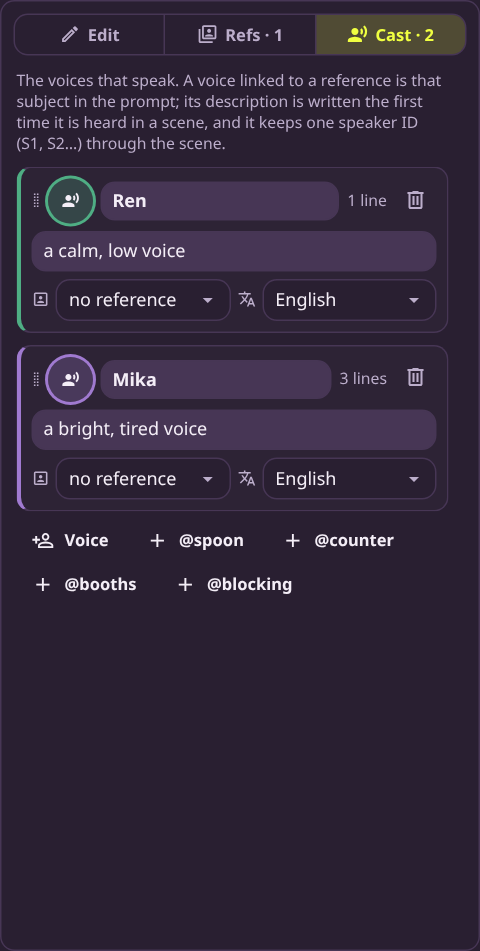
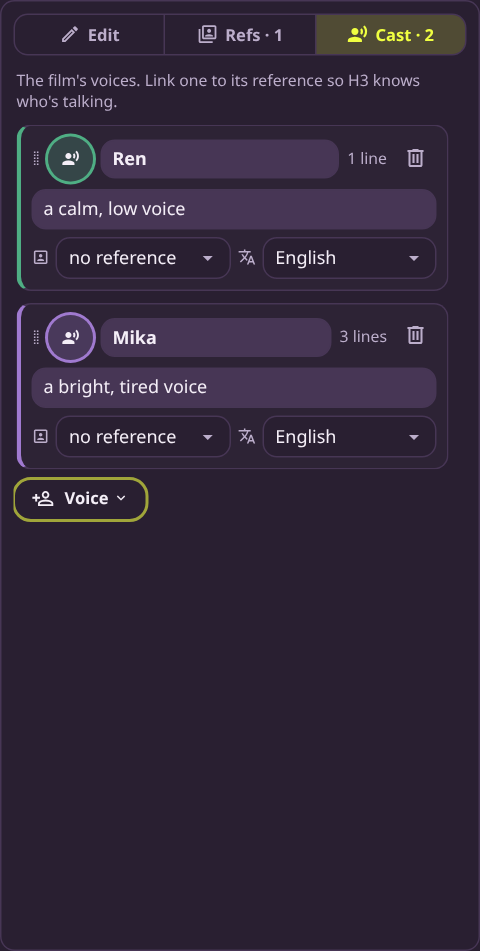
feat: Cast's per-reference voice chips become one Voice menu, without blocking videos

diff --git a/frontend/components/h3studio/StudioCast.vue b/frontend/components/h3studio/StudioCast.vue
@@ -1,10 +1,6 @@
 <template>
   <div ref="root" class="cast">
-    <p class="hintline">
-      The voices that speak. A voice linked to a reference is that subject in the prompt; its
-      description is written the first time it is heard in a scene, and it keeps one speaker ID (S1,
-      S2…) through the scene.
-    </p>
+    <p class="hintline">The film's voices. Link one to its reference so H3 knows who's talking.</p>
     <div
       v-for="v in cast"
       :key="v.id"
@@ -63,27 +59,58 @@
       </div>
     </div>
     <div class="row">
-      <ZenButton sm variant="ghost" icon="mdi mdi-account-plus-outline" @click="add()"
-        >Voice</ZenButton
-      >
       <ZenButton
-        v-for="r in unvoiced"
-        :key="r.id"
+        v-if="!unvoiced.length"
         sm
         variant="ghost"
-        icon="mdi mdi-plus"
-        :title="`A voice for @${r.name}`"
-        @click="add(r.name, r.id)"
+        icon="mdi mdi-account-plus-outline"
+        @click="add()"
+        >Voice</ZenButton
       >
-        @{{ r.name }}
-      </ZenButton>
+      <ZenPopover v-else placement="bottom-start">
+        <template #trigger="{ toggle }">
+          <ZenButton sm variant="ghost" icon="mdi mdi-account-plus-outline" @click="toggle"
+            >Voice <i class="mdi mdi-chevron-down"
+          /></ZenButton>
+        </template>
+        <template #default="{ close }">
+          <div class="menu">
+            <ZenMenuItem
+              icon="mdi mdi-account-plus-outline"
+              @select="
+                close();
+                add();
+              "
+              >New voice</ZenMenuItem
+            >
+            <ZenMenuSeparator />
+            <ZenMenuItem
+              v-for="r in unvoiced"
+              :key="r.id"
+              icon="mdi mdi-account-box-outline"
+              @select="
+                close();
+                add(r.name, r.id);
+              "
+              >For @{{ r.name }}</ZenMenuItem
+            >
+          </div>
+        </template>
+      </ZenPopover>
     </div>
   </div>
 </template>
 
 <script setup lang="ts">
 import { computed, ref } from "vue";
-import { ZenButton, ZenIconButton, ZenSelect } from "@nynxz/zenkit-ui";
+import {
+  ZenButton,
+  ZenIconButton,
+  ZenMenuItem,
+  ZenMenuSeparator,
+  ZenPopover,
+  ZenSelect,
+} from "@nynxz/zenkit-ui";
 import type { Project } from "@/lib/h3studio";
 import { LANGUAGES, newVoice, voiceColor, voiceThumb } from "@/lib/h3dialogue";
 
@@ -104,11 +131,11 @@ const audioOptions = computed(() => [
     .filter((r) => r.kind === "audio")
     .map((r) => ({ value: r.id, label: `@${r.name}` })),
 ]);
-/** Picture and video references with no voice yet — one click gives them one. */
+/** References that could speak and have no voice yet. Blocking only stages a scene. */
 const unvoiced = computed(() =>
-  props.project.refs
-    .filter((r) => r.kind !== "audio" && !cast.value.some((v) => v.ref === r.id))
-    .slice(0, 4),
+  props.project.refs.filter(
+    (r) => r.kind !== "audio" && r.role !== "blocking" && !cast.value.some((v) => v.ref === r.id),
+  ),
 );
 
 const spoken = (id: string) =>
@@ -274,6 +301,14 @@ function remove(id: string) {
 .soft {
   color: var(--h3-muted);
   font-size: 10.5px;
+}
+.menu {
+  display: flex;
+  flex-direction: column;
+  min-width: 180px;
+  max-height: 320px;
+  padding: 4px;
+  overflow-y: auto;
 }
 .hintline {
   margin: 0;

diff --git a/docs/wiki/Dialogue-and-Voices.md b/docs/wiki/Dialogue-and-Voices.md
@@ -25,8 +25,9 @@ Open the **Cast** tab in the sidebar. Each card is one voice:
 - **Timbre** (only when the film has an audio reference). An audio clip whose voice this one
   should follow.
 
-The **+ @name** buttons under the cards make a voice for a reference that doesn't have one yet.
-Drag a card by its grip to reorder; the timeline's voice lanes follow the same order.
+**+ Voice** adds one. When there are references without a voice, it opens a menu: a new voice,
+or one already linked to a reference (blocking videos and audio are left out). Drag a card by its
+grip to reorder; the timeline's voice lanes follow the same order.
 
 Voices belong to the whole film, so Mika sounds the same in every scene.
 
